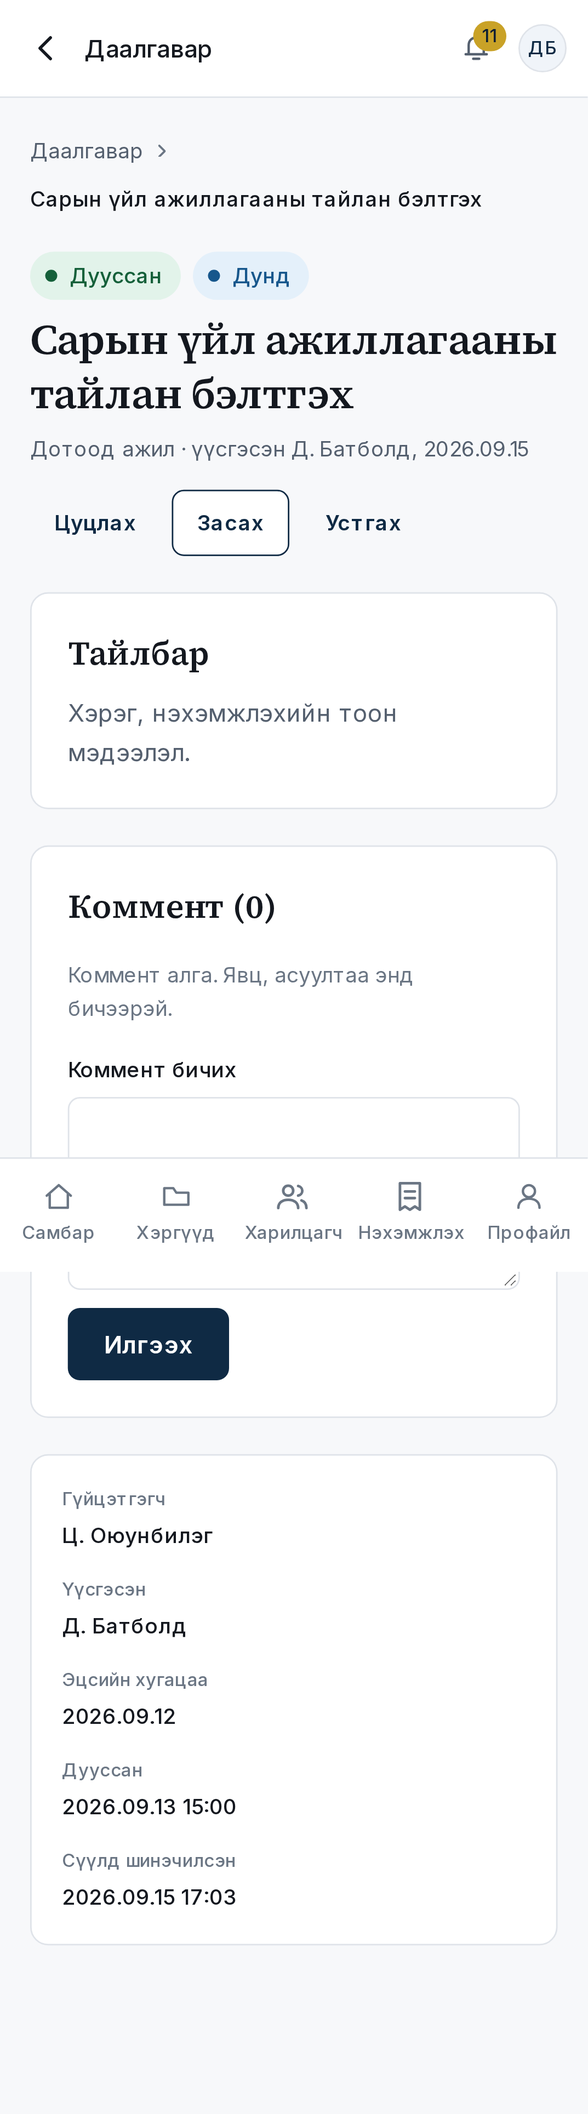
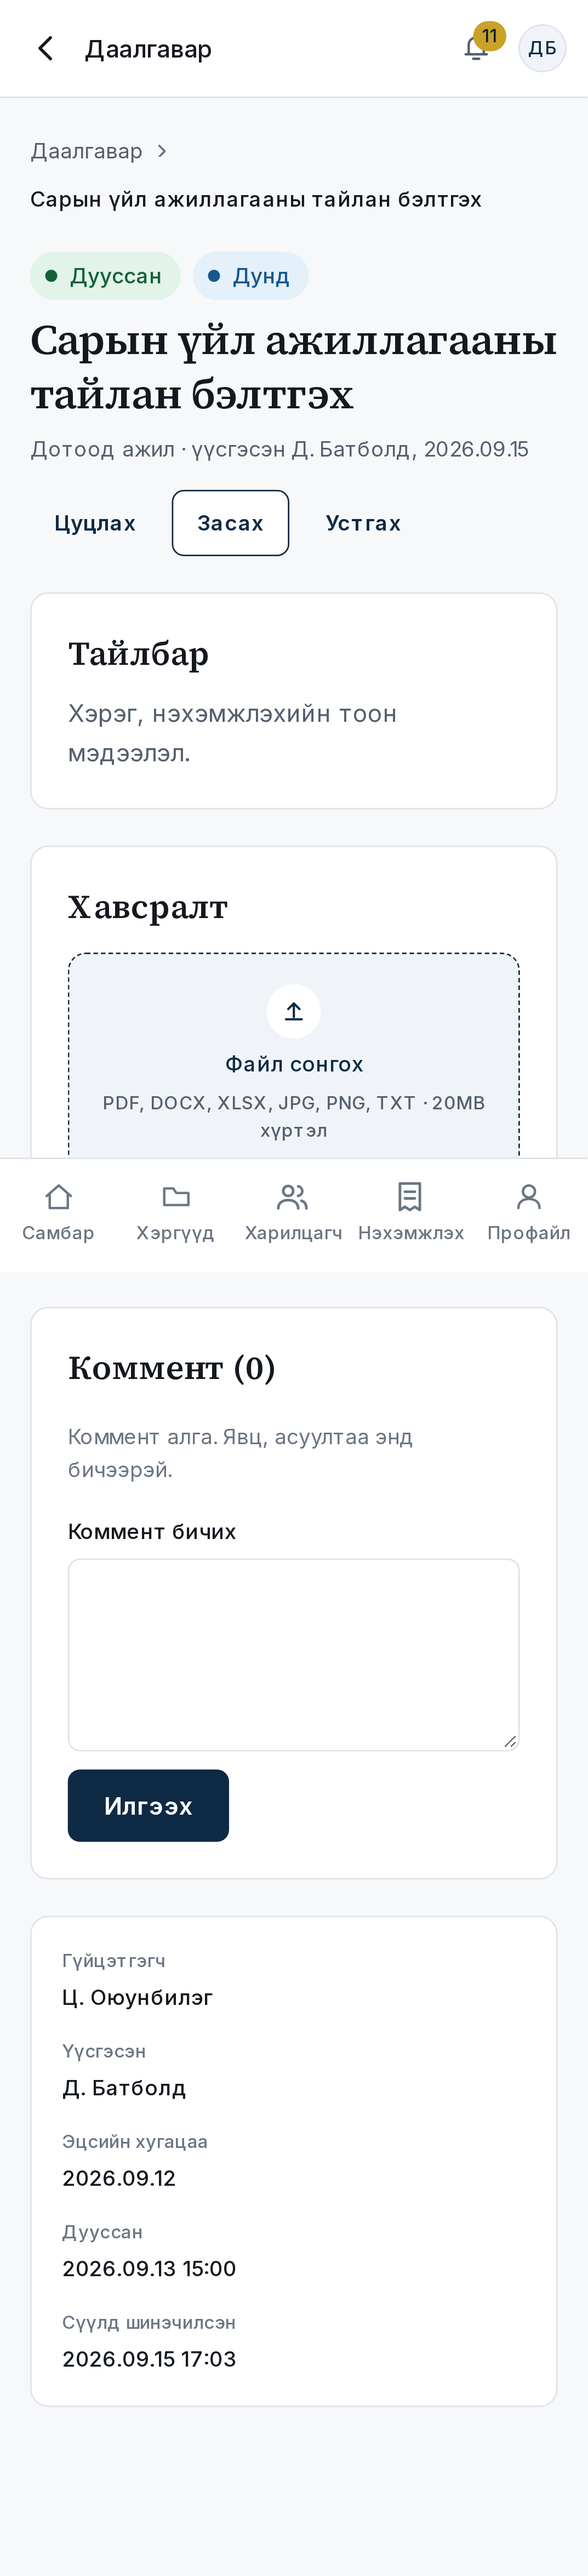
docs+test: reminders, portal bell, Kanban drag, task attachments — README, e2e, screenshots
README sections 11–12 (reminder rules and the lastReminderAt dedup choice,
REMINDERS_* env, task attachment endpoints, Kanban drag rules) and the portal
bell note. Playwright: a message raises the client's bell count and shows in
the dropdown; dragging a board card persists the status and an invalid drop
is refused; a task attachment uploads, downloads with a signed URL, is 403
for a lawyer outside the team, and deletes. The older admin 403 spec now
picks a case led by lawyer2 alone, since the tasks spec briefly adds lawyer2
to lawyer1's cases during parallel runs. Screenshots: portal bell dropdown,
task page attachments card, board drag handles, portal headers with the bell
count.

Claude-Session: https://claude.ai/code/session_01CvyuQB166igy1ds2wLy2Ew

diff --git a/apps/web/e2e/edges.spec.ts b/apps/web/e2e/edges.spec.ts
@@ -1,0 +1,123 @@
+import { type Locator, type Page, expect, test } from '@playwright/test';
+import { ADMIN, CLIENT1, LAWYER1, LAWYER2, apiAs, createCaseForClient1, login } from './fixtures';
+
+const uniqueId = () => Date.now().toString(36);
+const unreadOf = (label: string | null) => Number(label?.match(/(\d+) уншаагүй/)?.[1] ?? 0);
+
+/** dnd-kit listens to pointer events: press on the handle, nudge past the activation distance, move over the column, release. */
+async function dragTo(page: Page, handle: Locator, column: Locator) {
+  const from = (await handle.boundingBox())!;
+  const to = (await column.boundingBox())!;
+  await page.mouse.move(from.x + from.width / 2, from.y + from.height / 2);
+  await page.mouse.down();
+  await page.mouse.move(from.x + from.width / 2 + 12, from.y + from.height / 2 + 12, { steps: 4 });
+  await page.mouse.move(to.x + to.width / 2, to.y + 80, { steps: 16 });
+  await page.mouse.up();
+}
+
+test.describe('Сануулга, хонх, Kanban, хавсралт', () => {
+  test('CLIENT-д мэдэгдэл ирэхэд портал хонхны тоо нэмэгдэж, dropdown-оос харж, бүгдийг харах руу орно', async ({ page }) => {
+    const lawyerApi = await apiAs(LAWYER1);
+    const clientApi = await apiAs(CLIENT1);
+    const created = await createCaseForClient1(lawyerApi, `E2E хонх ${uniqueId()}`);
+    const before = ((await (await clientApi.get('/notifications/unread-count')).json()) as { count: number }).count;
+
+    await login(page, CLIENT1);
+    expect((await lawyerApi.post(`/cases/${created.id}/messages`, { data: { body: 'Шүүх хурлын өмнө баримтаа шалгана уу.' } })).status()).toBe(201);
+    const bell = page.getByRole('button', { name: /^Мэдэгдэл/ });
+    await page.reload();
+    await expect.poll(async () => unreadOf(await bell.getAttribute('aria-label'))).toBeGreaterThanOrEqual(before + 1);
+
+    await bell.click();
+    const menu = page.getByRole('menu', { name: 'Сүүлийн мэдэгдлүүд' });
+    await expect(menu.getByRole('menuitem', { name: new RegExp(`Шинэ мессеж: ${created.caseNumber}`) })).toBeVisible();
+    await menu.getByRole('menuitem', { name: 'Бүгдийг харах' }).click();
+    await expect(page).toHaveURL(/\/portal\/notifications$/);
+    await Promise.all([lawyerApi.dispose(), clientApi.dispose()]);
+  });
+
+  test('Kanban дээр даалгаврыг чирж статус солиход хадгалагдаж, зөвшөөрөгдөөгүй шилжилт буцна', async ({ page }) => {
+    const adminApi = await apiAs(ADMIN);
+    const me = ((await (await adminApi.get('/users?role=ADMIN&limit=10')).json()) as { items: { id: string; email: string }[] }).items.find((user) => user.email === ADMIN.identifier)!;
+    const title = `E2E чирэх ${uniqueId()}`;
+    const due = new Date(Date.now() + 86_400_000).toISOString();
+    const task = (await (await adminApi.post('/tasks', { data: { title, assigneeId: me.id, dueDate: due } })).json()) as { id: string };
+
+    try {
+      await login(page, ADMIN);
+      await page.goto('/admin/tasks?view=board&scope=mine');
+      const todo = page.getByRole('region', { name: 'Хийх' });
+      const doing = page.getByRole('region', { name: 'Хийгдэж буй' });
+      const done = page.getByRole('region', { name: 'Дууссан' });
+      const handle = (column: Locator) => column.getByRole('article', { name: title }).getByRole('button', { name: /чирэх$/ });
+      await expect(todo.getByRole('article', { name: title })).toBeVisible();
+
+      await dragTo(page, handle(todo), done);
+      await expect(page.getByText('Энэ шилжилт боломжгүй')).toBeVisible();
+      await expect(todo.getByRole('article', { name: title })).toBeVisible();
+
+      await dragTo(page, handle(todo), doing);
+      await expect(doing.getByRole('article', { name: title })).toBeVisible();
+      await expect.poll(async () => ((await (await adminApi.get(`/tasks/${task.id}`)).json()) as { status: string }).status).toBe('IN_PROGRESS');
+      await page.reload();
+      await expect(doing.getByRole('article', { name: title })).toBeVisible();
+    } finally {
+      await adminApi.delete(`/tasks/${task.id}`);
+      await adminApi.dispose();
+    }
+  });
+
+  test('даалгаварт файл хавсаргаж, татаж, устгана; багийн бус хуульч татаж чадахгүй', async ({ page }) => {
+    const lawyerApi = await apiAs(LAWYER1);
+    const outsiderApi = await apiAs(LAWYER2);
+    const members = await createCaseForClient1(lawyerApi, `E2E хавсралт ${uniqueId()}`);
+    const lead = ((await (await lawyerApi.get(`/cases/${members.id}/members`)).json()) as { userId: string; role: string }[]).find((m) => m.role === 'LEAD')!;
+    const title = `E2E хавсралттай даалгавар ${uniqueId()}`;
+    const task = (await (await lawyerApi.post('/tasks', { data: { title, caseId: members.id, assigneeId: lead.userId } })).json()) as { id: string };
+
+    try {
+      await login(page, LAWYER1);
+      await page.goto(`/admin/tasks/${task.id}`);
+      // exact: the task title itself contains the word «хавсралт»
+      await expect(page.getByRole('heading', { name: 'Хавсралт', exact: true })).toBeVisible();
+      await page.getByLabel('Даалгаварт хавсаргах файл сонгох').setInputFiles({
+        name: 'shinjeechiin-dugnelt.pdf',
+        mimeType: 'application/pdf',
+        buffer: Buffer.from('%PDF-1.4\n1 0 obj << /Type /Catalog >> endobj\ntrailer << /Root 1 0 R >>\n%%EOF\n'),
+      });
+      const list = page.getByRole('list', { name: 'Хавсралтууд' });
+      await expect(list.getByText('shinjeechiin-dugnelt.pdf')).toBeVisible();
+
+      const [attachment] = (await (await lawyerApi.get(`/tasks/${task.id}/attachments`)).json()) as { id: string }[];
+      const download = await lawyerApi.get(`/task-attachments/${attachment.id}/download`);
+      expect(download.status()).toBe(200);
+      expect(((await download.json()) as { url: string }).url).toContain('X-Amz-Signature');
+      expect((await outsiderApi.get(`/task-attachments/${attachment.id}/download`)).status()).toBe(403);
+
+      // «Татах» asks the API for a presigned URL and opens it; the URL answers with Content-Disposition: attachment, so the
+      // browser saves the file. Check the URL the page received and that it really serves the uploaded PDF.
+      const [downloadResponse] = await Promise.all([
+        page.waitForResponse((res) => res.url().endsWith(`/task-attachments/${attachment.id}/download`) && res.request().method() === 'GET'),
+        page.getByRole('button', { name: 'Татах: shinjeechiin-dugnelt.pdf' }).click(),
+      ]);
+      expect(downloadResponse.status()).toBe(200);
+      const signed = ((await downloadResponse.json()) as { url: string; name: string }).url;
+      expect(signed).toContain('X-Amz-Signature');
+      const file = await page.request.get(signed);
+      expect(file.status()).toBe(200);
+      expect((await file.body()).subarray(0, 5).toString()).toBe('%PDF-');
+      for (const extra of page.context().pages()) if (extra !== page) await extra.close();
+
+      await page.getByRole('button', { name: 'Устгах: shinjeechiin-dugnelt.pdf' }).click();
+      const dialog = page.getByRole('dialog', { name: 'Хавсралт устгах' });
+      await dialog.getByRole('button', { name: 'Устгах' }).click();
+      // The open dialog hides the page from the accessibility tree, so wait for it to close before looking at the list.
+      await expect(dialog).toBeHidden();
+      await expect(page.getByText('Хавсаргасан файл алга.')).toBeVisible();
+      await expect.poll(async () => ((await (await lawyerApi.get(`/tasks/${task.id}/attachments`)).json()) as unknown[]).length).toBe(0);
+    } finally {
+      await lawyerApi.delete(`/tasks/${task.id}`);
+      await Promise.all([lawyerApi.dispose(), outsiderApi.dispose()]);
+    }
+  });
+});

diff --git a/apps/web/e2e/admin.spec.ts b/apps/web/e2e/admin.spec.ts
@@ -93,22 +93,23 @@ test.describe('Админ самбар', () => {
   test('LAWYER өөр хуульчийн хэрэг рүү URL-ээр орвол 403, засах API ч хаалттай', async ({ page }) => {
     const api = await playwrightRequest.newContext({ baseURL: API_URL });
     expect((await api.post('/auth/login', { data: LAWYER2 })).ok()).toBeTruthy();
-    const { items } = (await (await api.get('/cases')).json()) as { items: { id: string; caseNumber: string }[] };
+    const { items } = (await (await api.get('/cases?limit=100')).json()) as { items: { id: string; caseNumber: string; lawyer: { firstName: string } }[] };
     await api.dispose();
-    expect(items.length).toBeGreaterThan(0);
-    const foreignCase = items[0];
+    // A seeded case lawyer2 leads alone: other specs briefly add lawyer2 to lawyer1's cases, so "the newest case" is not reliable.
+    const foreignCase = items.find((item) => item.lawyer.firstName === 'Оюунбилэг');
+    expect(foreignCase, 'a case led by lawyer2').toBeTruthy();
 
     await login(page, LAWYER1);
     // Admin-only menu items are hidden for lawyers.
     await expect(page.getByRole('link', { name: 'Хуульчид', exact: true })).toHaveCount(0);
 
-    await page.goto(`/admin/cases/${foreignCase.id}`);
+    await page.goto(`/admin/cases/${foreignCase!.id}`);
     const alert = page.getByRole('alert').filter({ hasText: '403' });
     await expect(alert).toContainText('Энэ хэргийг удирдах эрх танд байхгүй');
     await expect(page.getByRole('button', { name: 'Хэргүүд рүү буцах' }).or(page.getByRole('link', { name: 'Хэргүүд рүү буцах' }))).toBeVisible();
-    await expect(page.getByText(foreignCase.caseNumber)).toHaveCount(0);
+    await expect(page.getByText(foreignCase!.caseNumber)).toHaveCount(0);
 
-    const patch = await page.request.patch(`${API_URL}/cases/${foreignCase.id}`, { data: { title: 'Зөвшөөрөлгүй өөрчлөлт' } });
+    const patch = await page.request.patch(`${API_URL}/cases/${foreignCase!.id}`, { data: { title: 'Зөвшөөрөлгүй өөрчлөлт' } });
     expect(patch.status()).toBe(403);
   });
 

diff --git a/apps/web/e2e/screenshots.spec.ts b/apps/web/e2e/screenshots.spec.ts
@@ -88,6 +88,11 @@ test.describe('screenshots', () => {
     await invLink.click();
     await page.waitForTimeout(1500);
     await page.screenshot({ path: `screenshots/portal-invoice-detail.${suffix}.png`, fullPage: true });
+    await page.goto('/portal', { waitUntil: 'load' });
+    await page.getByRole('button', { name: /^Мэдэгдэл/ }).click();
+    await page.getByRole('menu', { name: 'Сүүлийн мэдэгдлүүд' }).waitFor();
+    await page.waitForTimeout(1200);
+    await page.screenshot({ path: `screenshots/portal-notification-bell.${suffix}.png` });
   });
 
   test('admin pages', async ({ page }, testInfo) => {
